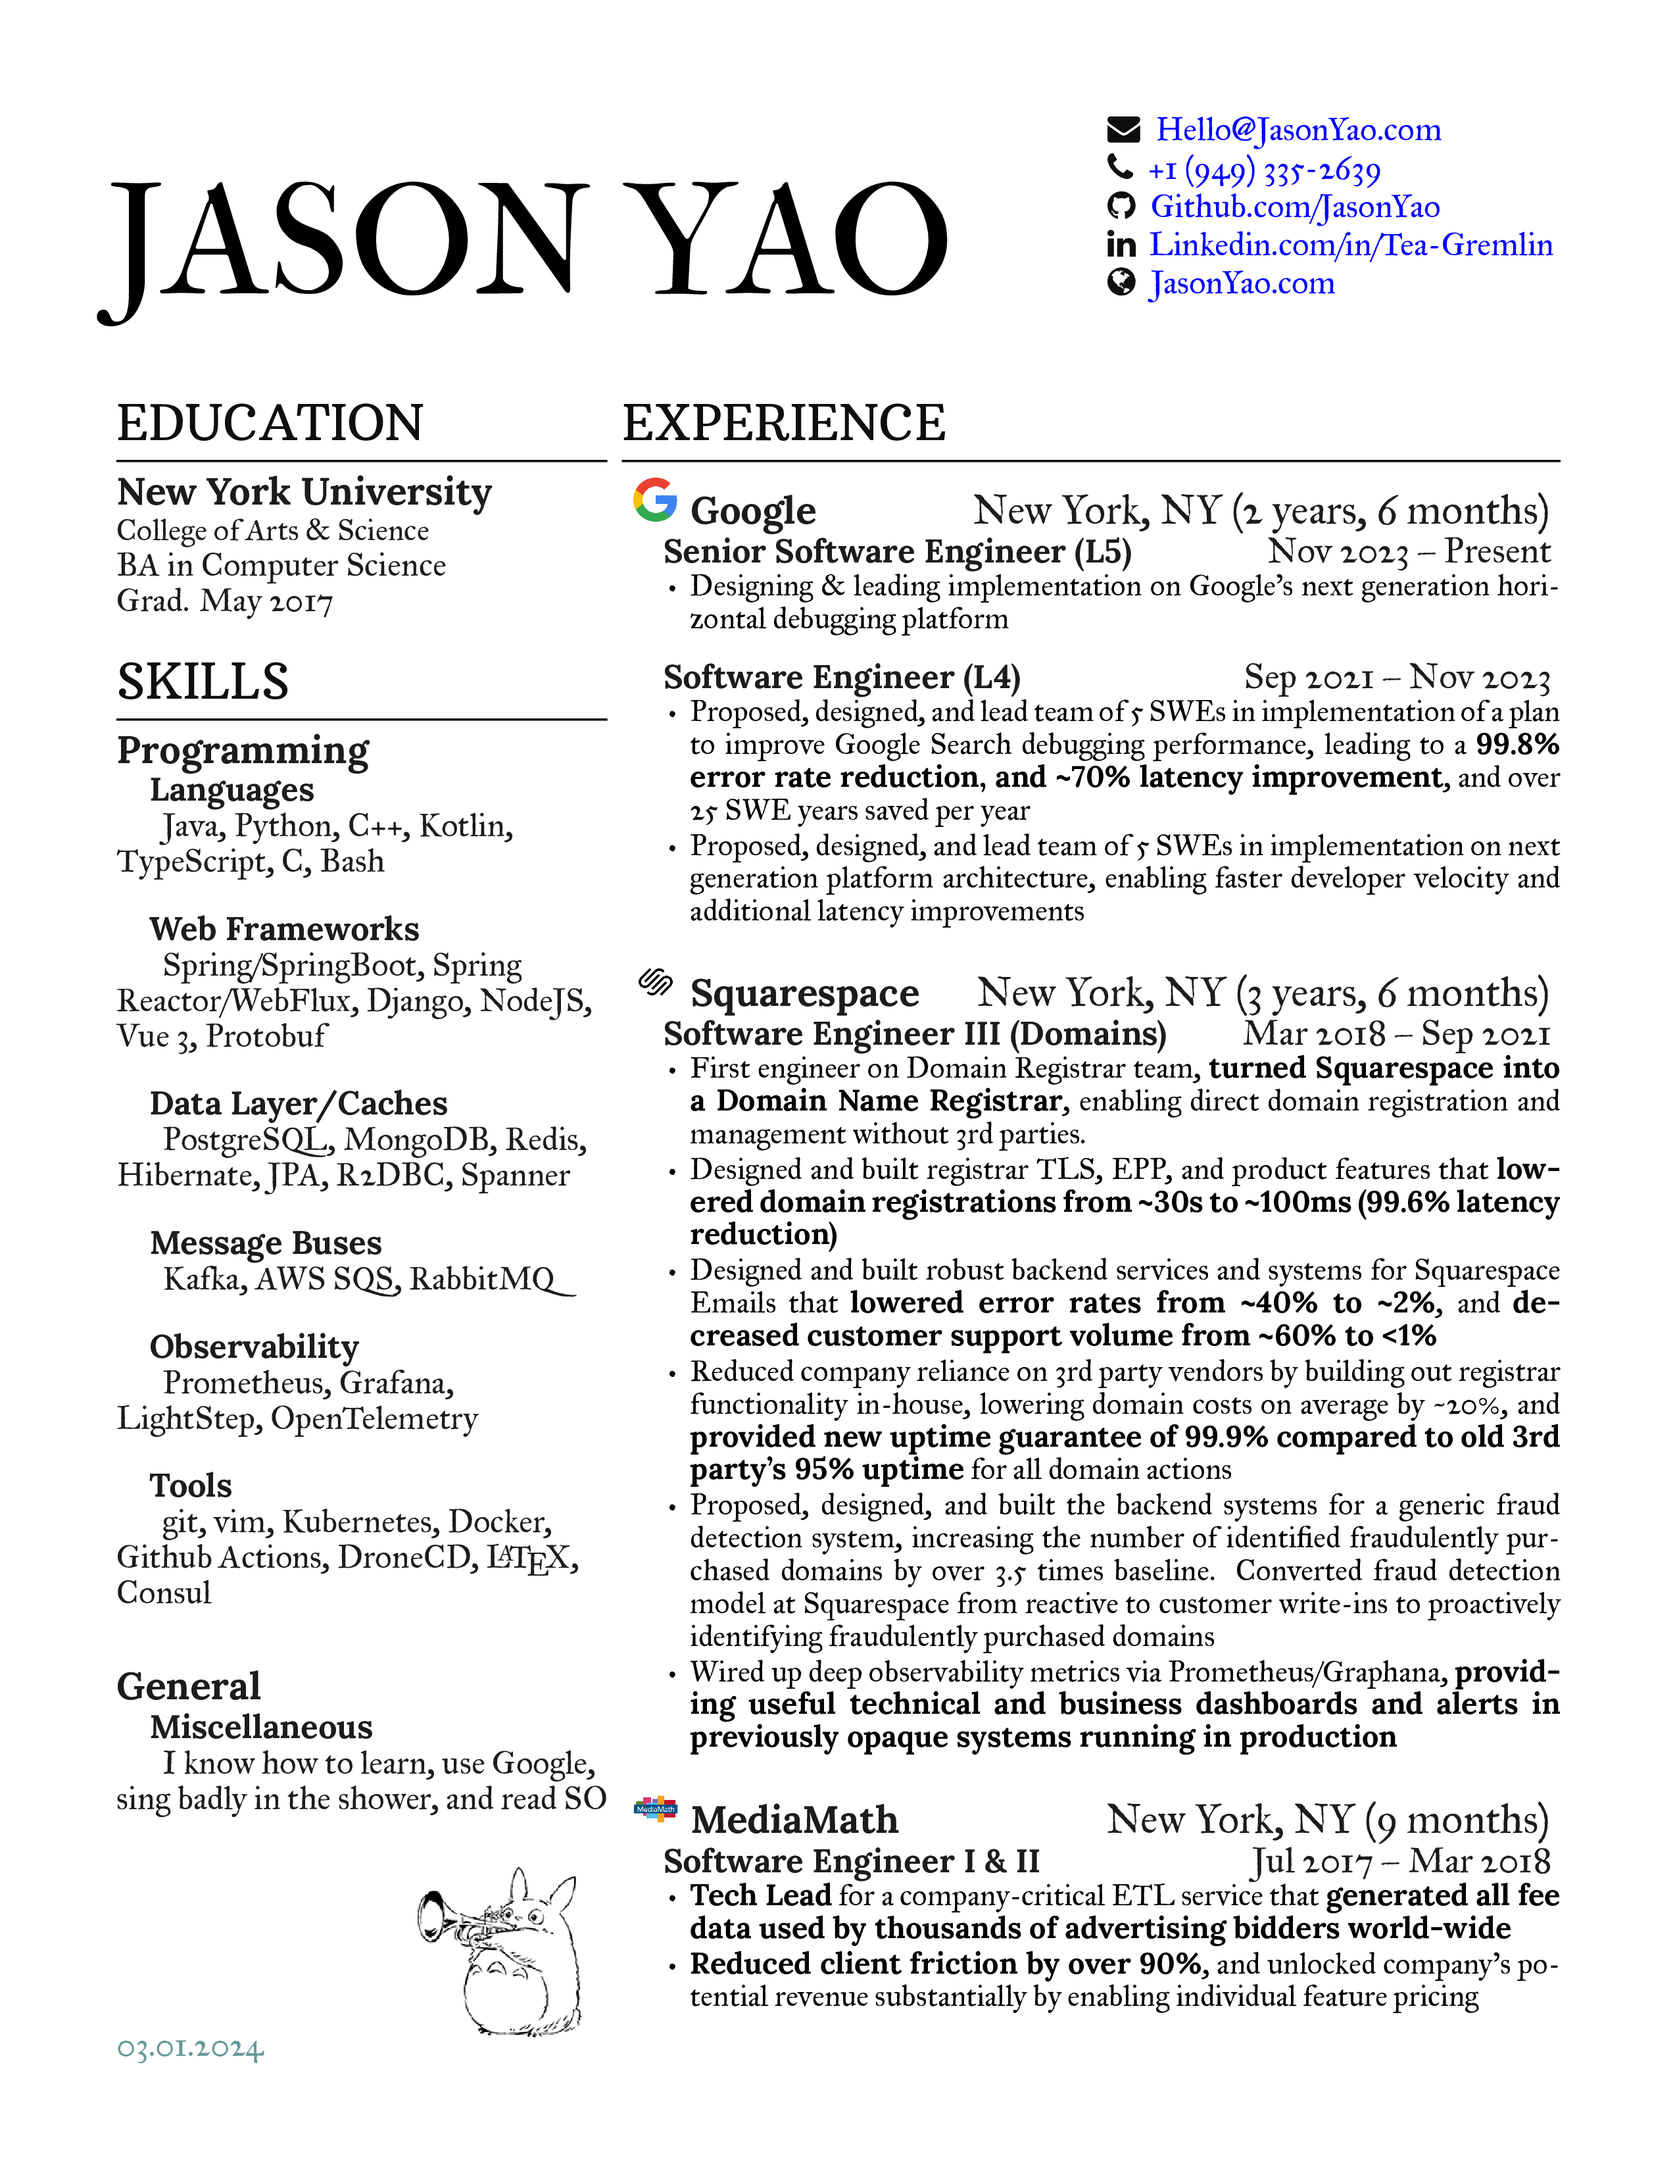
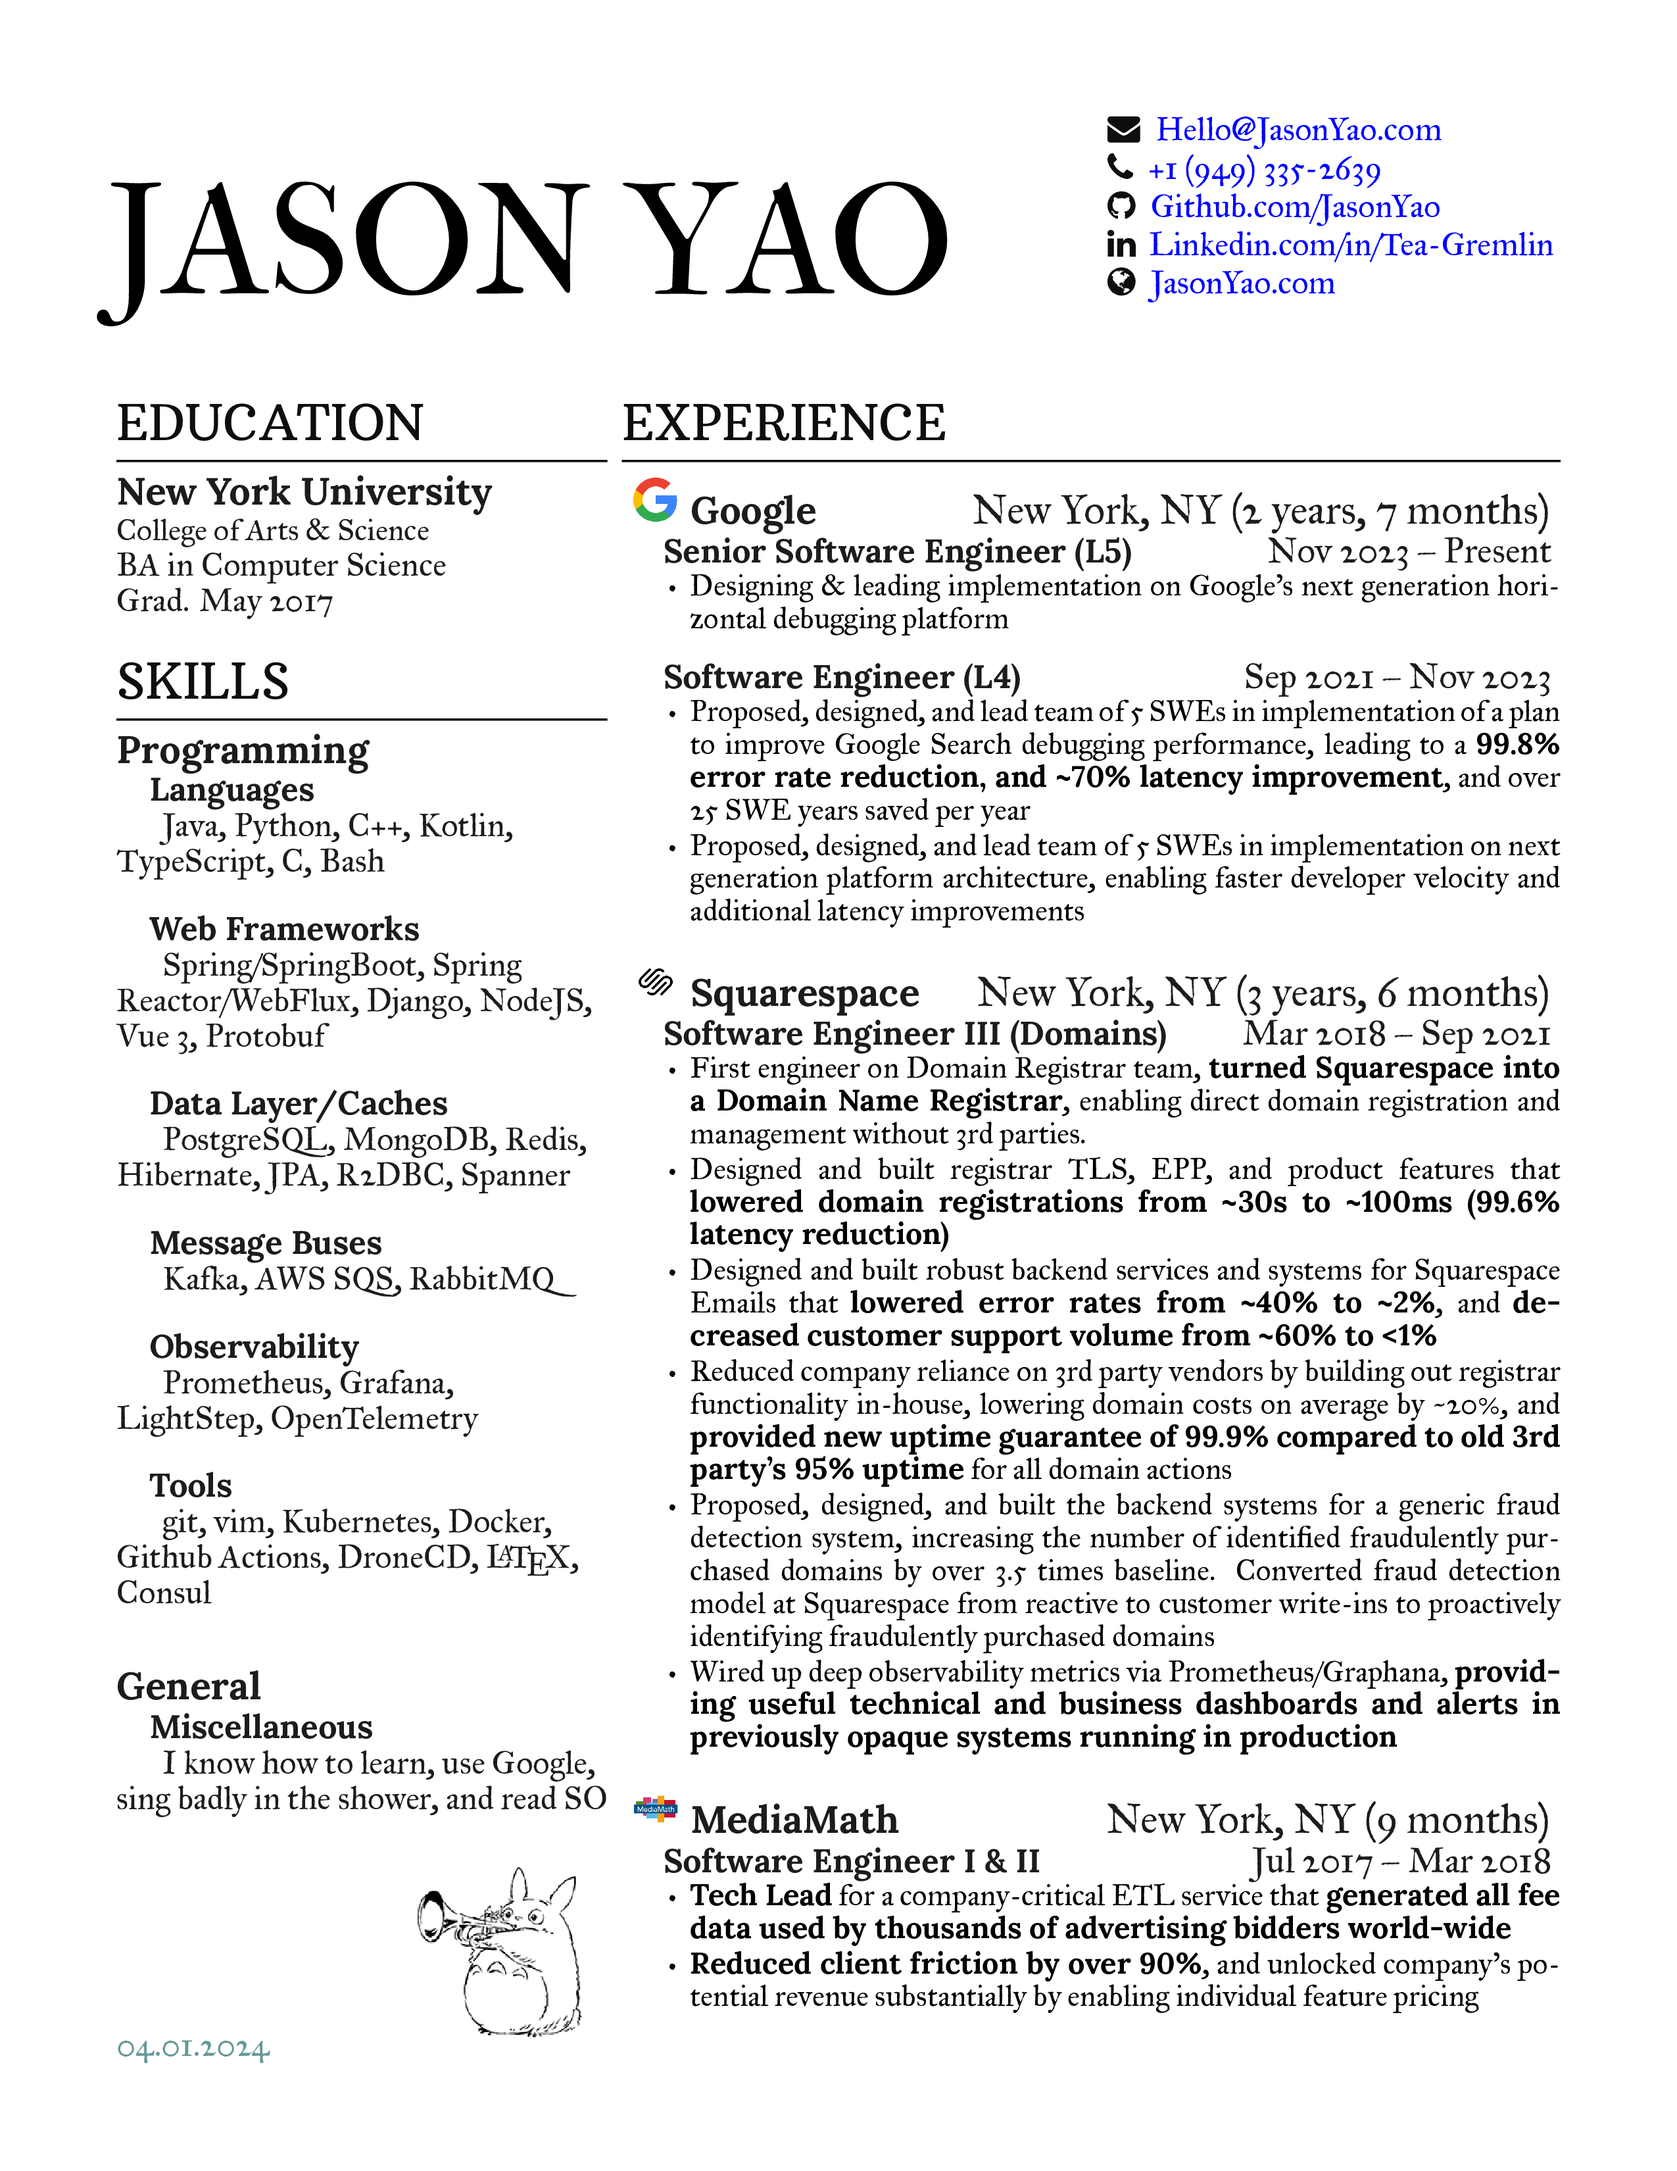
[Build] dc759b3377553be5860300e240fb505b6a27a9cf

Changed region(s): [[0.4027, 0.5306, 0.9294, 0.593], [0.0929, 0.9364, 0.1549, 0.9676], [0.8055, 0.2185, 0.8365, 0.2497]]

diff --git a/Resume_Jason_Yao.tex b/Resume_Jason_Yao.tex
@@ -153,7 +153,7 @@ I know how to learn, use Google, sing badly in the shower, and read SO
 %
 \section{Experience}
 
-    \workplace{logos/short/google}{Google}{New York, NY}{2 years, 6 months}
+    \workplace{logos/short/google}{Google}{New York, NY}{2 years, 7 months}
             \position{Senior Software Engineer (L5)}{Nov 2023 – Present}
         \vspace{\topsep} % Hacky fix for awkward extra vertical space
         \begin{tightemize}
